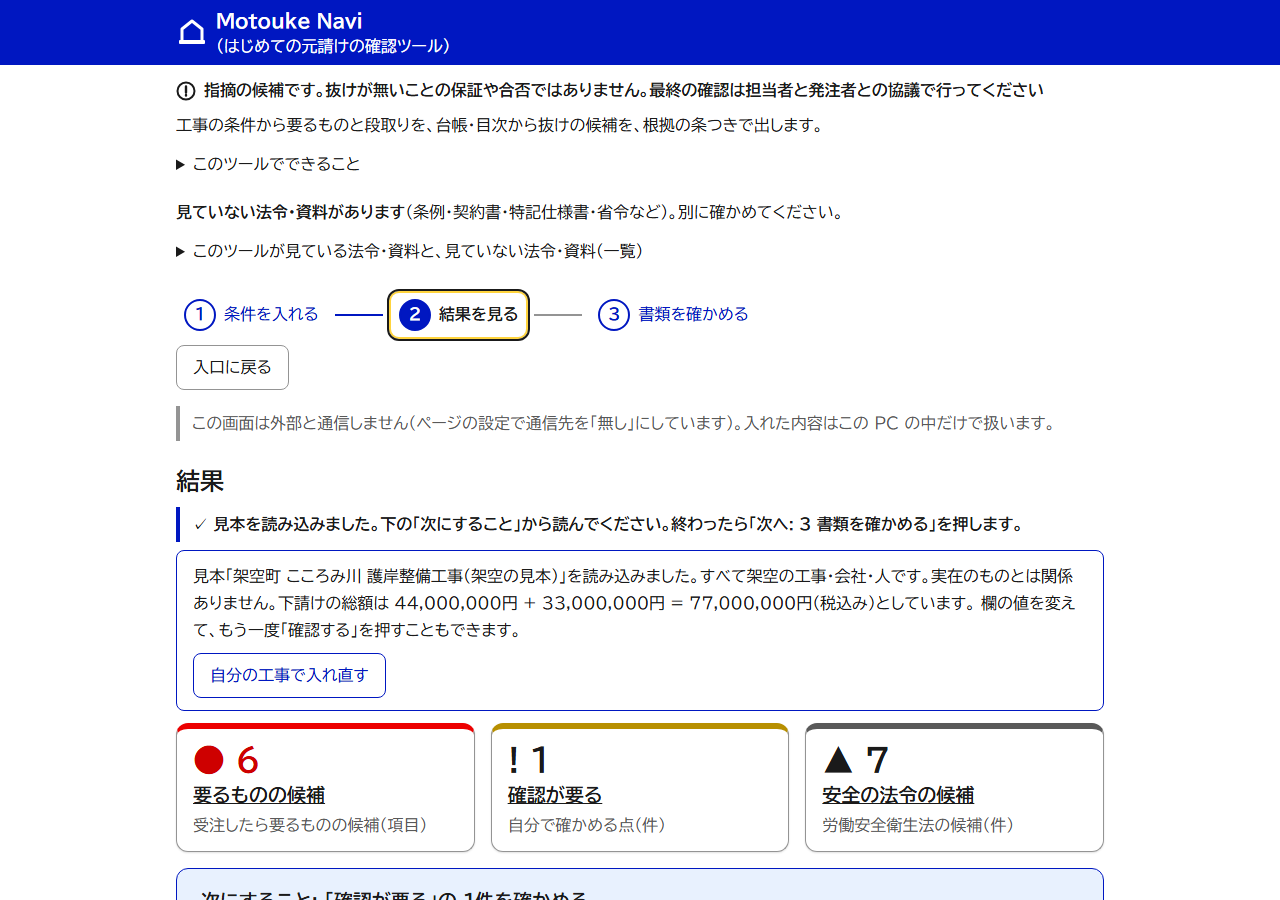
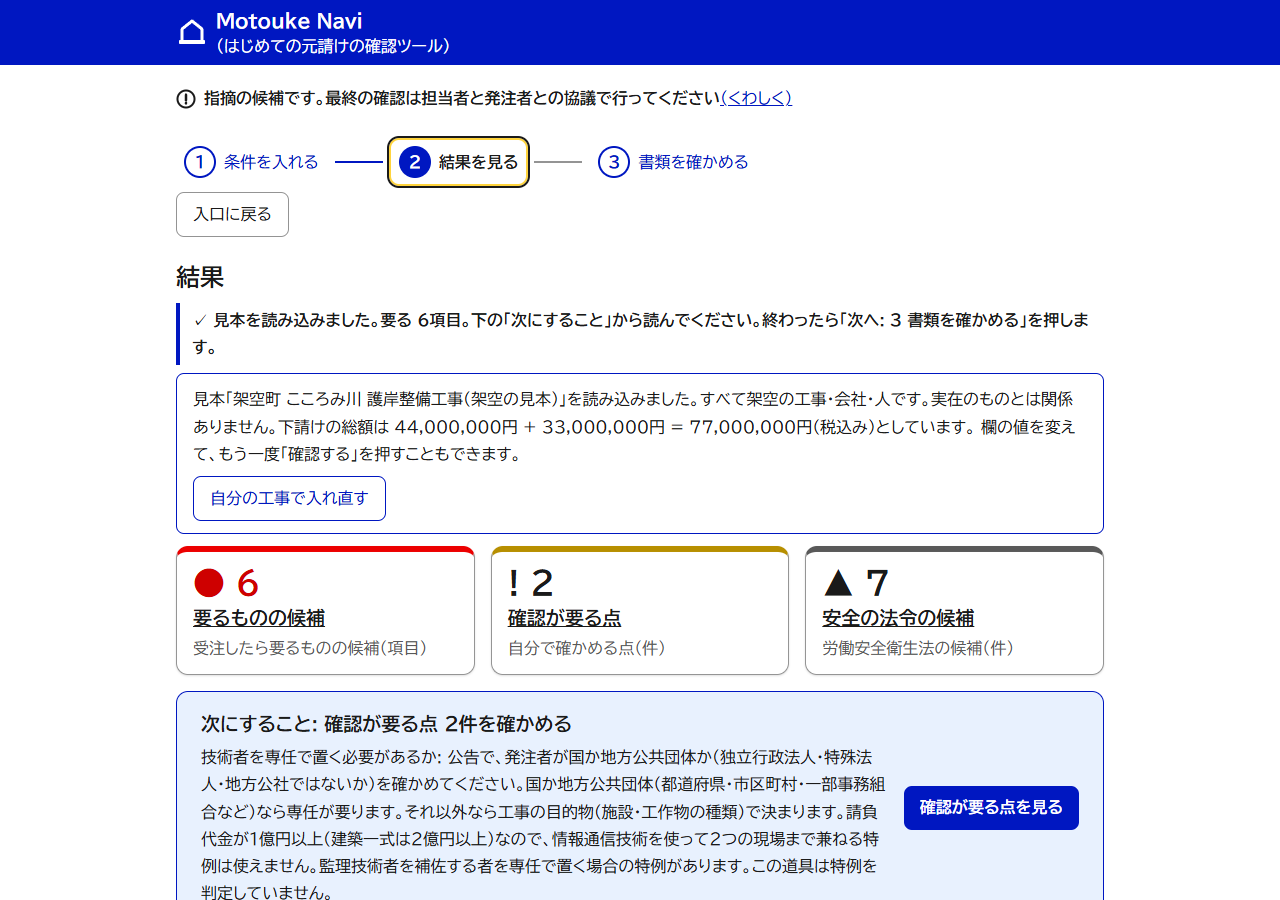
統括: README の画面の写しを撮り直した
取り込んだ後の index.html の写しを Edge のヘッドレス・CDP・1280×900 で撮った(CSP は外していない。押す順と間は f78a の報告のとおり)。README の2つの alt を今の絵に合わせた。

Changed region(s): [[0.125, 0.0933, 0.875, 1.0]]

diff --git a/README.md b/README.md
@@ -20,9 +20,9 @@ Web の画面は、開いたあとは通信しません。Claude を使う部品
 審査のときなどに、短い時間で全体を触るための順番です。1〜3 はブラウザだけで済みます(インストールは要りません。1 の Pages はページを読み込む通信だけで、開いたあとは通信しません)。
 画面は次のとおりです。1枚目は開いた直後の最初の画面、2枚目は「まず見本で試す」→「この内容で結果を見る」と進んだあとの結果の先頭で、写っているのは架空の見本の工事だけです。
 
-![Motouke Navi の最初の画面。候補であり保証や合否ではないという注意、見ていない法令・資料があるという表示、「まず、どう始めますか」の見出し、「まず見本で試す」「条件を入れる」「公告から拾った条件を読み込む」の3つのタイルが見える](docs/images/readme_top.png)
+![Motouke Navi の最初の画面。候補であり保証や合否ではないという注意、見ていない法令・資料があるという表示、「まず、どう始めますか」の見出し、「まず見本で試す」「条件を入れる」「公告を読み込む」の3つのタイルが見える](docs/images/readme_top.png)
 
-![架空の見本の結果の先頭。「結果を見る」の段、見本を読み込んだという表示、数字のカード 要るものの候補 6・確認が要る 1・安全の法令の候補 7、その下の「次にすること」が見える](docs/images/readme_summary.png)
+![架空の見本の結果の先頭。「結果を見る」の段、見本を読み込んだという表示、数字のカード 要るものの候補 6・確認が要る点 2・安全の法令の候補 7、その下の「次にすること: 確認が要る点 2件を確かめる」の枠と「確認が要る点を見る」のボタンが見える](docs/images/readme_summary.png)
 
 1. GitHub Pages の URL `[Pages の URL]`(提出の前に作者が入れます)をブラウザ(Edge・Chrome・Firefox など)で開く。または、リポジトリの `index.html` をブラウザで開く(1分)
 2. 入口の「まず見本で試す」を押す。架空の工事の条件が入り、確かめの画面で「この内容で結果を見る」を押すと、入札前の確認・施工体制台帳が要るか・受注後の段取りが根拠の条つきで出ます。見本の台帳と目次の点検の候補は「次へ: 3 書類を確かめる」の先の「2.」「3.」に出ます。上の「1 条件を入れる」を押して請負代金を変え、「確認する」→「この内容で結果を見る」と進むと、結果の変わり方が見られます(2分)
